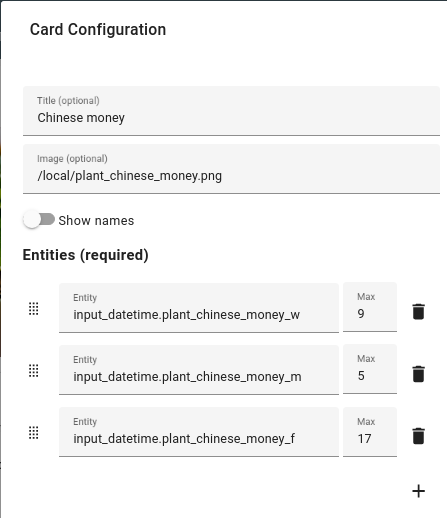
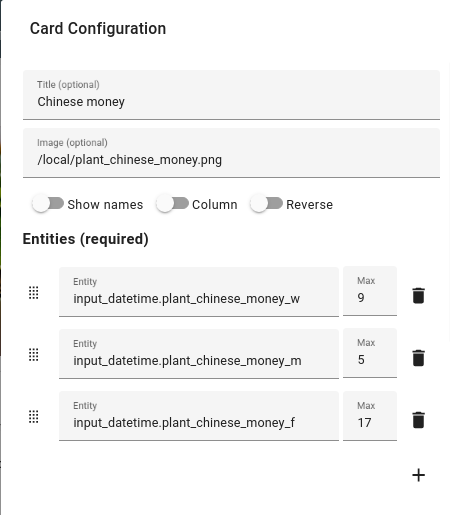
add flex direction option

diff --git a/src/__tests__/DatetimeCardEditor.svelte.spec.ts b/src/__tests__/DatetimeCardEditor.svelte.spec.ts
@@ -68,6 +68,7 @@ describe('DatetimeCardEditor.svelte', () => {
                 expect(eventDispatcher).toHaveBeenCalledWith("config-changed", {
                     config: {
                         entities: [{ "id": "", "max": 0 }],
+                        flex_direction: "row",
                         image: "",
                         show_names: false,
                         title: "My Datetime Card",
@@ -84,6 +85,7 @@ describe('DatetimeCardEditor.svelte', () => {
                 expect(eventDispatcher).toHaveBeenCalledWith("config-changed", {
                     config: {
                         entities: [{ id: "", max: 0 },],
+                        flex_direction: "row",
                         image: "/local/image.png",
                         show_names: false,
                         type: "custom:datetime-card",
@@ -100,8 +102,62 @@ describe('DatetimeCardEditor.svelte', () => {
                 expect(eventDispatcher).toHaveBeenCalledWith("config-changed", {
                     config: {
                         entities: [{ id: "", max: 0 },],
+                        flex_direction: "row",
                         image: "",
                         show_names: true,
+                        type: "custom:datetime-card",
+                        title: ""
+                    }
+                });
+            });
+
+            test("when column changes config should change", async () => {
+                getByLabelText("Column").checked = true;
+
+                await fireEvent.change(getByLabelText("Column"));
+
+                expect(eventDispatcher).toHaveBeenCalledWith("config-changed", {
+                    config: {
+                        entities: [{ id: "", max: 0 },],
+                        flex_direction: "column",
+                        image: "",
+                        show_names: false,
+                        type: "custom:datetime-card",
+                        title: ""
+                    }
+                });
+            });
+
+            test("when reverse changes config should change", async () => {
+                getByLabelText("Reverse").checked = true;
+
+                await fireEvent.change(getByLabelText("Reverse"));
+
+                expect(eventDispatcher).toHaveBeenCalledWith("config-changed", {
+                    config: {
+                        entities: [{ id: "", max: 0 },],
+                        flex_direction: "row-reverse",
+                        image: "",
+                        show_names: false,
+                        type: "custom:datetime-card",
+                        title: ""
+                    }
+                });
+            });
+
+            test("when column and reverse change config should change", async () => {
+                getByLabelText("Column").checked = true;
+                getByLabelText("Reverse").checked = true;
+
+                await fireEvent.change(getByLabelText("Column"));
+                await fireEvent.change(getByLabelText("Reverse"));
+
+                expect(eventDispatcher).toHaveBeenCalledWith("config-changed", {
+                    config: {
+                        entities: [{ id: "", max: 0 },],
+                        flex_direction: "column-reverse",
+                        image: "",
+                        show_names: false,
                         type: "custom:datetime-card",
                         title: ""
                     }
@@ -133,6 +189,20 @@ describe('DatetimeCardEditor.svelte', () => {
             await component.setConfig({ show_names: true });
 
             expect(getByLabelText("Show names")).toHaveAttribute("checked", "true");
+        });
+
+        [{ flex_direction: "column", column: "true", reverse: "false" },
+        { flex_direction: "row", column: "false", reverse: "false" },
+        { flex_direction: "column-reverse", column: "true", reverse: "true" },
+        { flex_direction: "row-reverse", column: "false", reverse: "true" }
+        ].forEach(({ flex_direction, column, reverse }) => {
+            test(`when flex_direction is ${flex_direction}`, async () => {
+                const config = { flex_direction };
+                await component.setConfig(config);
+
+                expect(getByLabelText("Column")).toHaveAttribute("checked", column);
+                expect(getByLabelText("Reverse")).toHaveAttribute("checked", reverse);
+            });
         });
 
         describe("when config.entities is not empty", () => {
@@ -175,6 +245,7 @@ describe('DatetimeCardEditor.svelte', () => {
                 expect(eventDispatcher).toHaveBeenCalledWith("config-changed", {
                     config: {
                         entities: [{ id: "input_datetime.test", "max": 10 }, entity2],
+                        flex_direction: "row",
                         image: "",
                         show_names: false,
                         title: "",
@@ -191,6 +262,7 @@ describe('DatetimeCardEditor.svelte', () => {
                 expect(eventDispatcher).toHaveBeenCalledWith("config-changed", {
                     config: {
                         entities: [{ "id": "input_datetime.test_1", "max": 20 }, entity2],
+                        flex_direction: "row",
                         image: "",
                         show_names: false,
                         title: "",
@@ -213,6 +285,7 @@ describe('DatetimeCardEditor.svelte', () => {
                 expect(eventDispatcher).toHaveBeenCalledWith("config-changed", {
                     config: {
                         entities: [{ "id": "input_datetime.test_2", "max": 20, }],
+                        flex_direction: "row",
                         image: "",
                         show_names: false,
                         title: "",
@@ -231,6 +304,7 @@ describe('DatetimeCardEditor.svelte', () => {
                 expect(eventDispatcher).toHaveBeenCalledWith("config-changed", {
                     config: {
                         entities: [],
+                        flex_direction: "row",
                         image: "",
                         show_names: false,
                         title: "",

diff --git a/src/DatetimeCardEditor.svelte b/src/DatetimeCardEditor.svelte
@@ -12,6 +12,8 @@
 	export function setConfig(config: IConfig): void {
 		draggableEntities = toDraggableEntities(config.entities);
 		show_names = config.show_names || false;
+		column = config.flex_direction?.includes("column");
+		reverse = config.flex_direction?.includes("reverse");
 		image = config.image || "";
 		title = config.title || "";
 	}
@@ -24,6 +26,8 @@
 	const flipDurationMs = 200;
 	const svelteDispatch = createEventDispatcher();
 
+	let column = false;
+	let reverse = false;
 	let key = 0;
 	let draggableEntities: DraggableEntity[] = [new DraggableEntity(newKey())];
 	let dragDisabled = true;
@@ -38,7 +42,16 @@
 	function dispatchConfigChanged(): void {
 		const type = "custom:datetime-card";
 		const entities = draggableEntities.map(toEntity);
-		const config = { entities, image, show_names, title, type };
+		const flex_direction =
+			(column ? "column" : "row") + (reverse ? "-reverse" : "");
+		const config = {
+			entities,
+			flex_direction,
+			image,
+			show_names,
+			title,
+			type,
+		};
 		svelteDispatch("config-changed", { config });
 	}
 
@@ -108,23 +121,18 @@
 		return { id, max: parseInt(max) || 0 };
 	}
 
-	function updateTitle($event: Event): void {
-		title = (<HTMLInputElement>$event.target).value;
-		dispatchConfigChanged();
-	}
-
-	function updateImage($event: Event): void {
-		image = (<HTMLInputElement>$event.target).value;
-		dispatchConfigChanged();
-	}
-
-	function updateShowNames($event: Event): void {
-		show_names = (<HTMLInputElement>$event.target).checked;
+	function updateColumn($event: Event): void {
+		column = (<HTMLInputElement>$event.target).checked;
 		dispatchConfigChanged();
 	}
 
 	function updateId($event: CustomEvent, entity: DraggableEntity): void {
 		entity.id = $event.detail.value;
+		dispatchConfigChanged();
+	}
+
+	function updateImage($event: Event): void {
+		image = (<HTMLInputElement>$event.target).value;
 		dispatchConfigChanged();
 	}
 
@@ -138,6 +146,21 @@
 
 		(<HTMLInputElement>$event.target).value = value.toString();
 		entity.max = value.toString();
+		dispatchConfigChanged();
+	}
+
+	function updateReverse($event: Event): void {
+		reverse = (<HTMLInputElement>$event.target).checked;
+		dispatchConfigChanged();
+	}
+
+	function updateShowNames($event: Event): void {
+		show_names = (<HTMLInputElement>$event.target).checked;
+		dispatchConfigChanged();
+	}
+
+	function updateTitle($event: Event): void {
+		title = (<HTMLInputElement>$event.target).value;
 		dispatchConfigChanged();
 	}
 </script>
@@ -158,13 +181,28 @@
 
 <section class="switches">
 	<ha-switch
-		aria-labelledby="show-names-switch-label"
+		id="show-names-switch"
+		aria-label="Show names"
 		checked={show_names}
 		on:change={updateShowNames}
 	/>
-	<label id="show-names-switch-label" for="show-names-switch"
-		>Show names</label
-	>
+	<label for="show-names-switch">Show names</label>
+
+	<ha-switch
+		id="column-switch"
+		aria-label="Column"
+		checked={column}
+		on:change={updateColumn}
+	/>
+	<label for="column-switch">Column</label>
+
+	<ha-switch
+		id="reverse-switch"
+		aria-label="Reverse"
+		checked={reverse}
+		on:change={updateReverse}
+	/>
+	<label for="reverse-switch">Reverse</label>
 </section>
 
 <h3>Entities (required)</h3>
@@ -244,6 +282,10 @@
 	.switches {
 		margin-top: 10px;
 		margin-top: 15px;
+	}
+
+	ha-switch {
+		margin-left: 30px;
 	}
 
 	.entity {

diff --git a/src/__tests__/DatetimeCard.svelte.spec.ts b/src/__tests__/DatetimeCard.svelte.spec.ts
@@ -37,6 +37,13 @@ describe('DatetimeCard.svelte', () => {
             await component.setConfig(config);
             expect(getAllByRole("listitem")).toHaveLength(1);
         });
+
+        test("flex_direction should be row", async () => {
+            const hass = { states: { input_datetime_test: { state: "2022-05-11" } } };
+            const { component, getByTestId } = render(DatetimeCard, { hass });
+            await component.setConfig(config);
+            expect(getByTestId("card-content")).toHaveStyle("flex-direction: row");
+        });
     });
 
     test("when config.title is defined title should be in the document", async () => {
@@ -49,6 +56,12 @@ describe('DatetimeCard.svelte', () => {
         const { component, getByAltText } = render(DatetimeCard);
         await component.setConfig({ type: "custom:datetime-card", image: "/local/my-image.png" })
         expect(getByAltText('card-pict')).toHaveAttribute("src", "/local/my-image.png");
+    });
+
+    test("when config.flex_direction is defined the style should be applied", async () => {
+        const { component, getByTestId } = render(DatetimeCard);
+        await component.setConfig({ flex_direction: "column" });
+        expect(getByTestId("card-content")).toHaveStyle("flex-direction: column");
     });
 
     test("when config.title is empty title should not be in the document", async () => {

diff --git a/src/DatetimeCard.svelte b/src/DatetimeCard.svelte
@@ -27,11 +27,13 @@
 		entities = config.entities;
 		header = config.title !== undefined ? config.title : DEFAULT_TITLE;
 		shownames = config.show_names || false;
+		flex_direction = config.flex_direction || "row";
 		src = config.image !== undefined ? config.image : DEFAULT_SRC;
 	}
 
 	$: entities = entities || getDefaultEntities(hass);
 
+	let flex_direction = "row";
 	let header: string;
 	let shownames: boolean;
 	let src: string;
@@ -42,10 +44,15 @@
 		<h1 class="card-header">{header}</h1>
 	{/if}
 
-	<div class="card-content">
+	<div
+		data-testid="card-content"
+		class="card-content"
+		style:flex-direction={flex_direction}
+	>
 		{#if !!src}
 			<img {src} alt="card-pict" />
 		{/if}
+
 		<div class="grid">
 			{#each entities as entity}
 				<datetime-icon role="listitem" {entity} {hass} />
@@ -72,16 +79,17 @@
 	}
 
 	img {
-		max-width: 50%;
+		max-width: 40%;
 	}
 
 	.grid {
 		display: grid;
 		flex-grow: 1;
 		grid-template-columns: 24px auto min-content;
-		margin-left: 5px;
+		margin: 10px;
 		gap: 10px;
 		align-items: center;
+		width: 100%;
 	}
 
 	datetime-label {

diff --git a/src/types.d.ts b/src/types.d.ts
@@ -7,6 +7,7 @@ export interface IAutocompleteItem {
 export interface IConfig {
     readonly type: string = "custom:datetime-card";
     entities?: IEntity[] = [];
+    flex_direction: "column" | "row" | "column-reverse" | "row-reverse";
     image?: string;
     title?: string;
     show_names: boolean;

diff --git a/README.md b/README.md
@@ -31,6 +31,7 @@ type: custom:datetime-card
 title: Chinese money
 image: /local/plant_chinese_money.png
 show_names: false
+flex_direction: row
 entities:
   - id: input_datetime.plant_chinese_money_w
     max: 9
